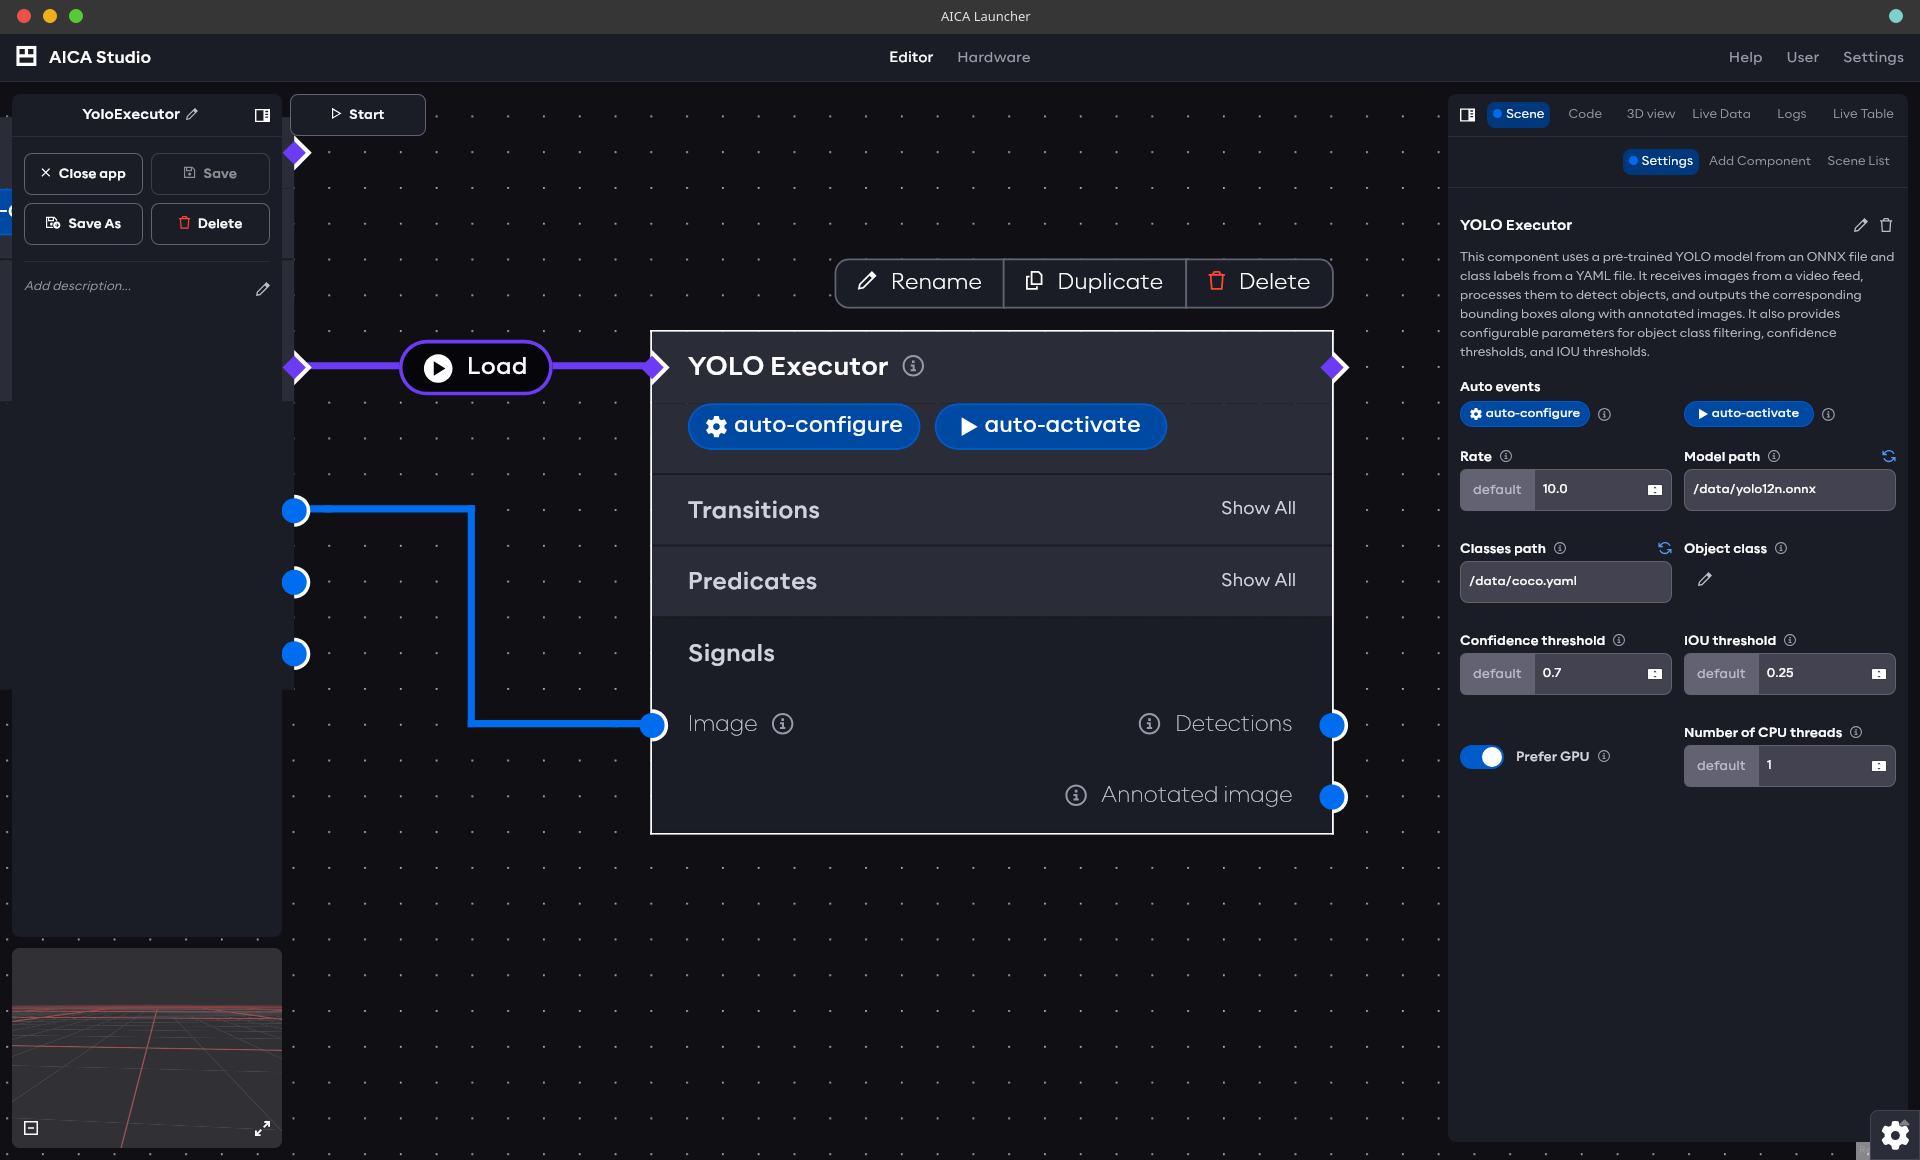
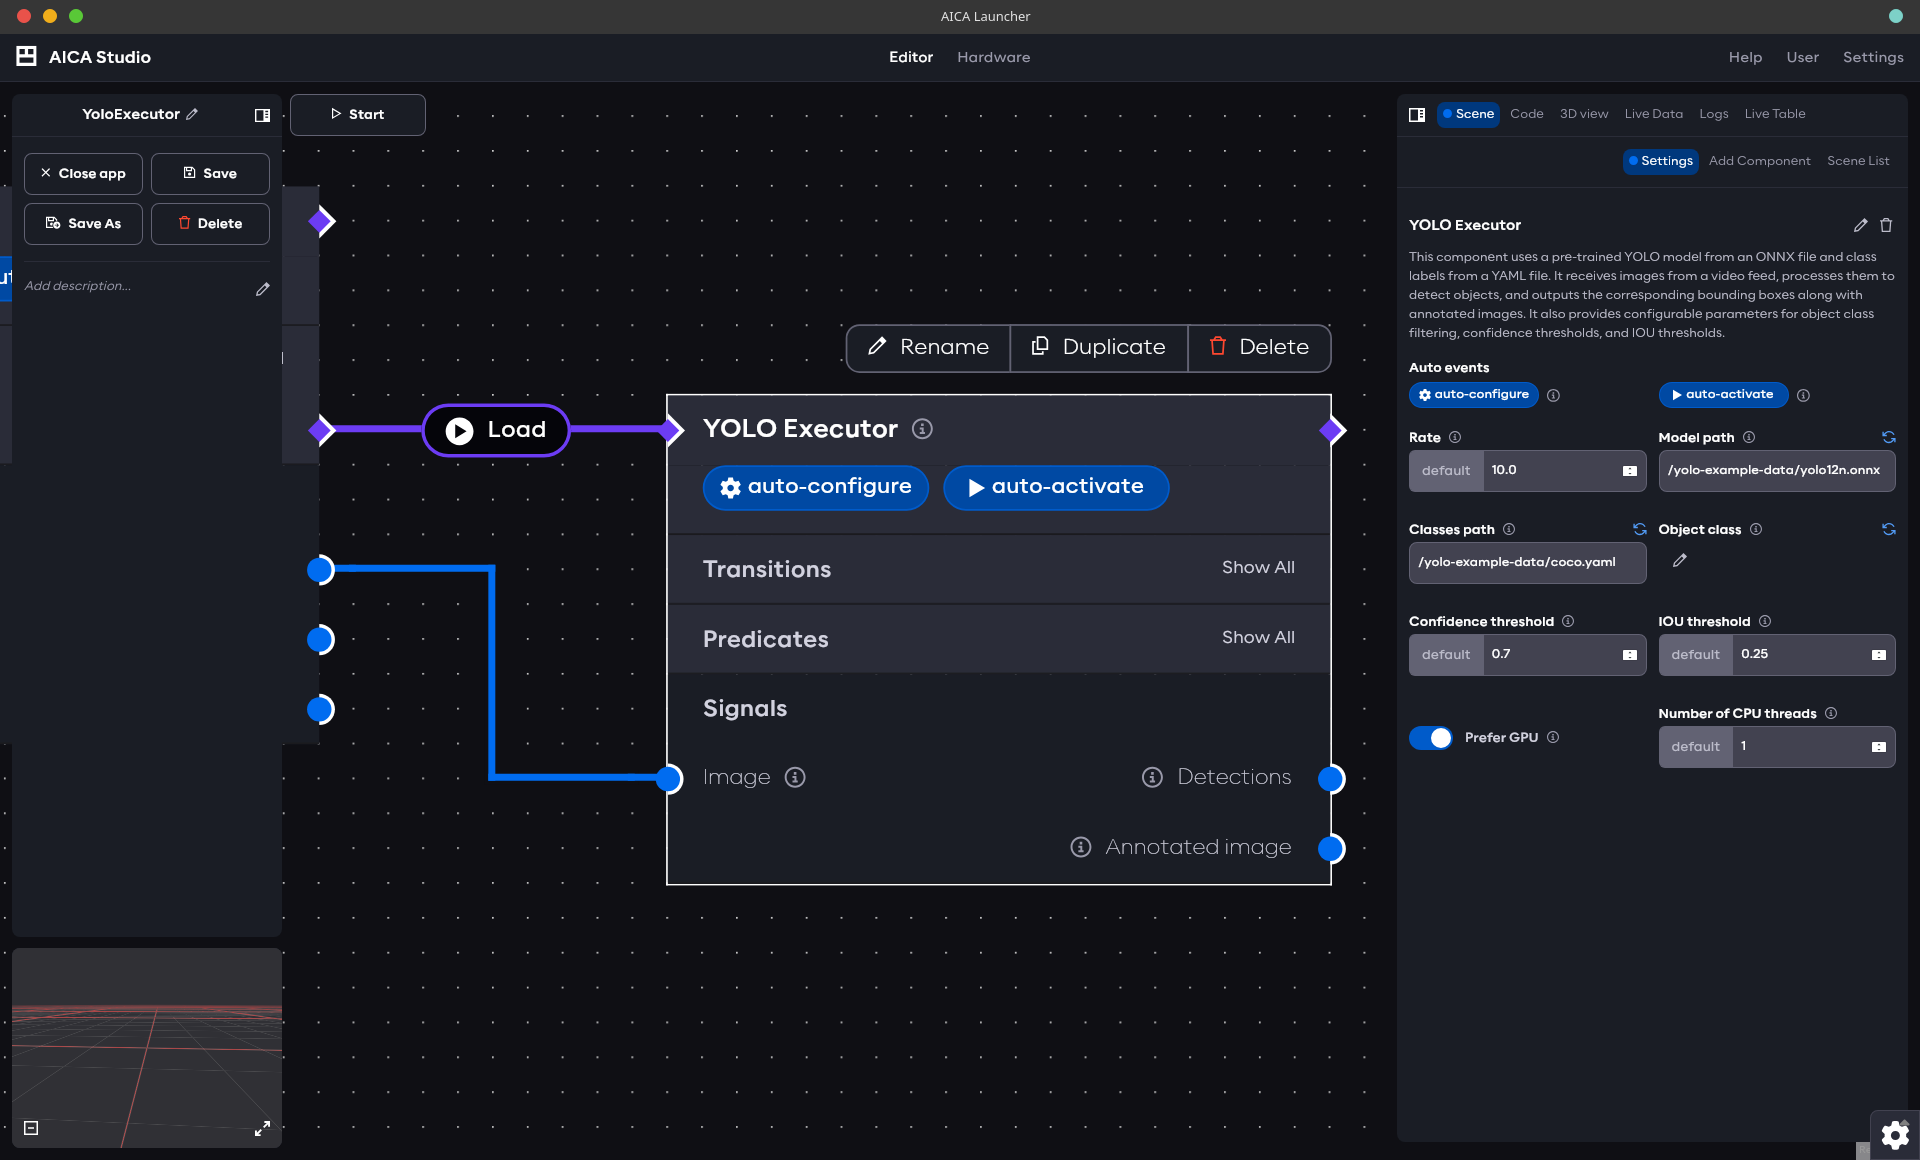
update paths and tip

diff --git a/docs/docs/examples/guides/yolo-example.md b/docs/docs/examples/guides/yolo-example.md
@@ -560,9 +560,8 @@ Some objects are easier to recognize than others, so you may have to adapt the `
 for a larger YOLO model.
 
 :::tip
-If you are planning to use this demo with a physical robot, consider using a `Velocity Impedance Controller` to
-introduce some compliance/safety into your application. This would merely require replacing your `IK Velocity Controller`
-and parametrizing the `Velocity Impedance Controller` to your liking.
+If you are planning to use this demo with a physical robot, additional logic and safety considerations may have to be
+made.
 :::
 
 ### Application code
